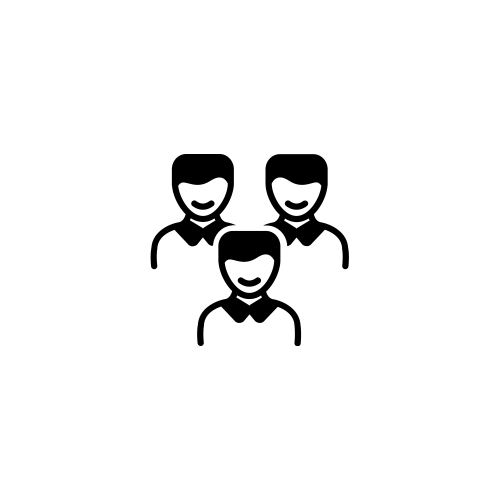
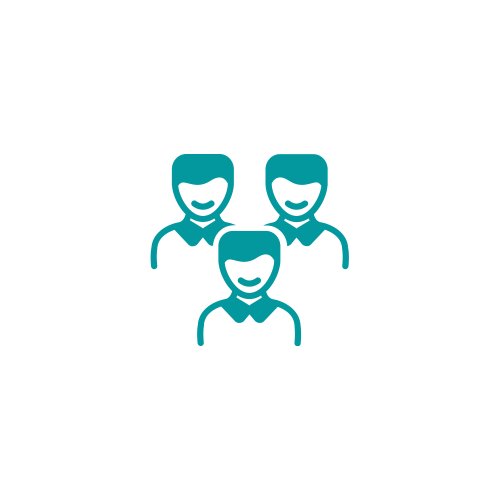
summary png color changed

Changed region(s): [[0.3, 0.3, 0.72, 0.69]]

diff --git a/src/components/Pages/Home/Summary.js b/src/components/Pages/Home/Summary.js
@@ -23,7 +23,9 @@ const Summary = () => {
             <h1 className="text-4xl font-extrabold text-center italic text-emerald-500   ">
               120M
             </h1>
-            <p className="font-bold p-2 text-lg">Annul Revenue</p>
+            <p className="font-bold p-2 text-lg mt-6 text-teal-500">
+              Annul Revenue
+            </p>
           </div>
         </div>
         <div>
@@ -32,7 +34,9 @@ const Summary = () => {
             <h1 className="text-4xl font-extrabold text-center italic text-emerald-500  ">
               120+
             </h1>
-            <p className="font-bold p-2 text-lg 	">Happy Clients</p>
+            <p className="font-bold p-2 text-lg mt-6 text-teal-500	">
+              Happy Clients
+            </p>
           </div>
         </div>
         <div>
@@ -41,7 +45,9 @@ const Summary = () => {
             <h1 className="text-4xl font-extrabold text-center italic text-emerald-500  ">
               33k+
             </h1>
-            <p className="font-bold p-2 text-lg">Total Review</p>
+            <p className="font-bold p-2 text-lg mt-6 text-teal-500">
+              Total Review
+            </p>
           </div>
         </div>
         <div>
@@ -50,7 +56,7 @@ const Summary = () => {
             <h1 className="text-4xl font-extrabold text-center  italic  text-emerald-500">
               50+
             </h1>
-            <p className="font-bold p-2 text-lg">Tools</p>
+            <p className="font-bold p-2 text-lg mt-6 text-teal-500">Tools</p>
           </div>
         </div>
       </div>

diff --git a/src/components/Pages/Home/Services.js b/src/components/Pages/Home/Services.js
@@ -7,9 +7,9 @@ const Services = () => {
   const [service, setService]= useService();
   return (
     <div className=" mb-20">
-      <h1 className="text-4xl font-extrabold text-center my-8  ">
-        <span className="border-b-2 p-2 border-sky-700 text-indigo-900">
-         Services We Provide
+      <h1 className="text-4xl font-semibold italic text-center my-8  ">
+        <span className="border-b-2 p-2 border-emerald-700 text-emerald-700">
+          Services We Provide
         </span>
       </h1>
       <div className="mt-12  lg:mt-24 grid lg:grid-cols-3 gap-10 md:grid-cols-2 lg:mx-14  mb-2 ">
@@ -17,7 +17,6 @@ const Services = () => {
           <SingleService key={service._id} service={service} />
         ))}
       </div>
-      
     </div>
   );
 };

diff --git a/src/components/Pages/Home/Banner.js b/src/components/Pages/Home/Banner.js
@@ -4,10 +4,10 @@ const Banner = () => {
   return (
     <>
       <div className=" mt-12">
-        <h1 className="text-3xl font-semibold italic text-center ">
-          Our Prorities <span className="text-red-500" >!</span>
+        <h1 className="text-3xl font-semibold italic text-center text-emerald-700">
+          Our Prorities <span className="text-red-500">!</span>
         </h1>
-        <hr className="w-1/6 border-2 mx-auto mt-4 border-sky-800" />
+        <hr className="w-1/6 border-1 mx-auto mt-4 border-emerald-800" />
       </div>
       <div className="my-20">
         <div className="carousel w-full h-96 my-8">
